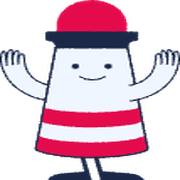
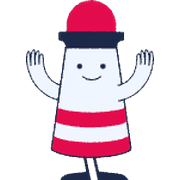
Update branding assets and enhance ProdejnyPolozky styles
- Replaced apple-touch-icon.png, favicon.ico, logo192.png, and logo512.png with new designs for improved branding.
- Refactored CSS in ProdejnyPolozky.css to unify styles for seller metrics, enhancing layout and responsiveness.
- Introduced new grid and flex properties for better alignment and spacing of metric items.

diff --git a/frontend/src/modules/analytics/sections/ProdejnyPolozky.css b/frontend/src/modules/analytics/sections/ProdejnyPolozky.css
@@ -113,24 +113,45 @@
     padding: 14px;
 }
 
-.polozky-view .seller-main-metrics {
+.polozky-view .seller-main-metrics,
+.polozky-view .seller-large-metrics {
+    display: grid;
     grid-template-columns: repeat(auto-fit, minmax(92px, 1fr));
     gap: 10px;
-    margin-bottom: 14px;
 }
 
-.polozky-view .seller-main-metrics .metric-item {
+.polozky-view .seller-main-metrics {
+    margin-bottom: 10px;
+}
+
+.polozky-view .seller-large-metrics {
+    margin-bottom: 12px;
+}
+
+.polozky-view .seller-main-metrics .metric-item,
+.polozky-view .seller-large-metrics .metric-item--large {
+    display: flex;
+    flex-direction: column;
+    align-items: center;
     padding: 9px 8px;
     border-radius: 6px;
     background: var(--bg-inset);
     border: 1px solid var(--border-subtle);
+    text-align: center;
 }
 
-.polozky-view .seller-main-metrics .metric-item:hover {
+.polozky-view .seller-main-metrics .metric-item:hover,
+.polozky-view .seller-large-metrics .metric-item--large:hover {
     transform: scale(1.01);
 }
 
-.polozky-view .seller-main-metrics .metric-label {
+.polozky-view .seller-large-metrics .metric-item--large-muted {
+    opacity: 0.75;
+}
+
+.polozky-view .seller-main-metrics .metric-label,
+.polozky-view .seller-large-metrics .metric-label {
+    display: block;
     font-size: 0.62rem;
     font-weight: 600;
     color: var(--text-label);
@@ -139,7 +160,9 @@
     text-align: center;
 }
 
-.polozky-view .seller-main-metrics .metric-value {
+.polozky-view .seller-main-metrics .metric-value,
+.polozky-view .seller-large-metrics .metric-value {
+    display: block;
     font-size: 0.95rem;
     font-weight: 700;
     color: var(--text-strong);
@@ -155,40 +178,6 @@
     color: #fff;
 }
 
-.polozky-view .seller-large-metrics {
-    display: grid;
-    grid-template-columns: repeat(2, minmax(0, 1fr));
-    gap: 10px;
-    margin-bottom: 12px;
-}
-
-.polozky-view .seller-large-metrics .metric-item--large {
-    padding: 10px 8px;
-    border-radius: 6px;
-    background: var(--bg-inset);
-    border: 1px solid var(--border-subtle);
-    text-align: center;
-}
-
-.polozky-view .seller-large-metrics .metric-item--large-muted {
-    opacity: 0.75;
-}
-
-.polozky-view .seller-large-metrics .metric-label {
-    display: block;
-    font-size: 0.62rem;
-    font-weight: 600;
-    color: var(--text-label);
-    margin-bottom: 4px;
-}
-
-.polozky-view .seller-large-metrics .metric-value {
-    display: block;
-    font-size: 1rem;
-    font-weight: 700;
-    color: var(--text-strong);
-}
-
 .polozky-view .seller-large-metrics .metric-value.highlight-profit {
     color: #0f766e;
 }
@@ -199,8 +188,8 @@
 
 .polozky-view .seller-large-metrics .metric-sublabel {
     display: block;
-    margin-top: 4px;
-    font-size: 0.62rem;
+    margin-top: 3px;
+    font-size: 0.58rem;
     color: var(--text-muted);
     line-height: 1.2;
 }
@@ -294,23 +283,33 @@
     font-size: 0.9rem;
 }
 
-.polozky-view.is-comparison .seller-main-metrics {
+.polozky-view.is-comparison .seller-main-metrics,
+.polozky-view.is-comparison .seller-large-metrics {
     display: grid;
     grid-template-columns: repeat(2, minmax(0, 1fr));
     gap: 4px 8px;
     margin-bottom: 6px;
 }
 
-.polozky-view.is-comparison .seller-main-metrics .metric-item {
+.polozky-view.is-comparison .seller-main-metrics .metric-item,
+.polozky-view.is-comparison .seller-large-metrics .metric-item--large {
     padding: 0;
+    background: transparent;
+    border: none;
 }
 
-.polozky-view.is-comparison .seller-main-metrics .metric-label {
+.polozky-view.is-comparison .seller-main-metrics .metric-label,
+.polozky-view.is-comparison .seller-large-metrics .metric-label {
     font-size: 0.65rem;
 }
 
-.polozky-view.is-comparison .seller-main-metrics .metric-value {
+.polozky-view.is-comparison .seller-main-metrics .metric-value,
+.polozky-view.is-comparison .seller-large-metrics .metric-value {
     font-size: 0.85rem;
+}
+
+.polozky-view.is-comparison .seller-large-metrics .metric-sublabel {
+    font-size: 0.58rem;
 }
 
 .polozky-view.is-comparison .seller-detail-chips {
@@ -347,7 +346,8 @@
         align-items: stretch;
     }
 
-    .polozky-view .seller-main-metrics {
+    .polozky-view .seller-main-metrics,
+    .polozky-view .seller-large-metrics {
         grid-template-columns: repeat(2, 1fr);
         gap: 6px;
     }
@@ -359,7 +359,8 @@
         grid-template-columns: repeat(2, 1fr);
     }
 
-    .polozky-view .seller-main-metrics {
+    .polozky-view .seller-main-metrics,
+    .polozky-view .seller-large-metrics {
         grid-template-columns: 1fr;
     }
 }
